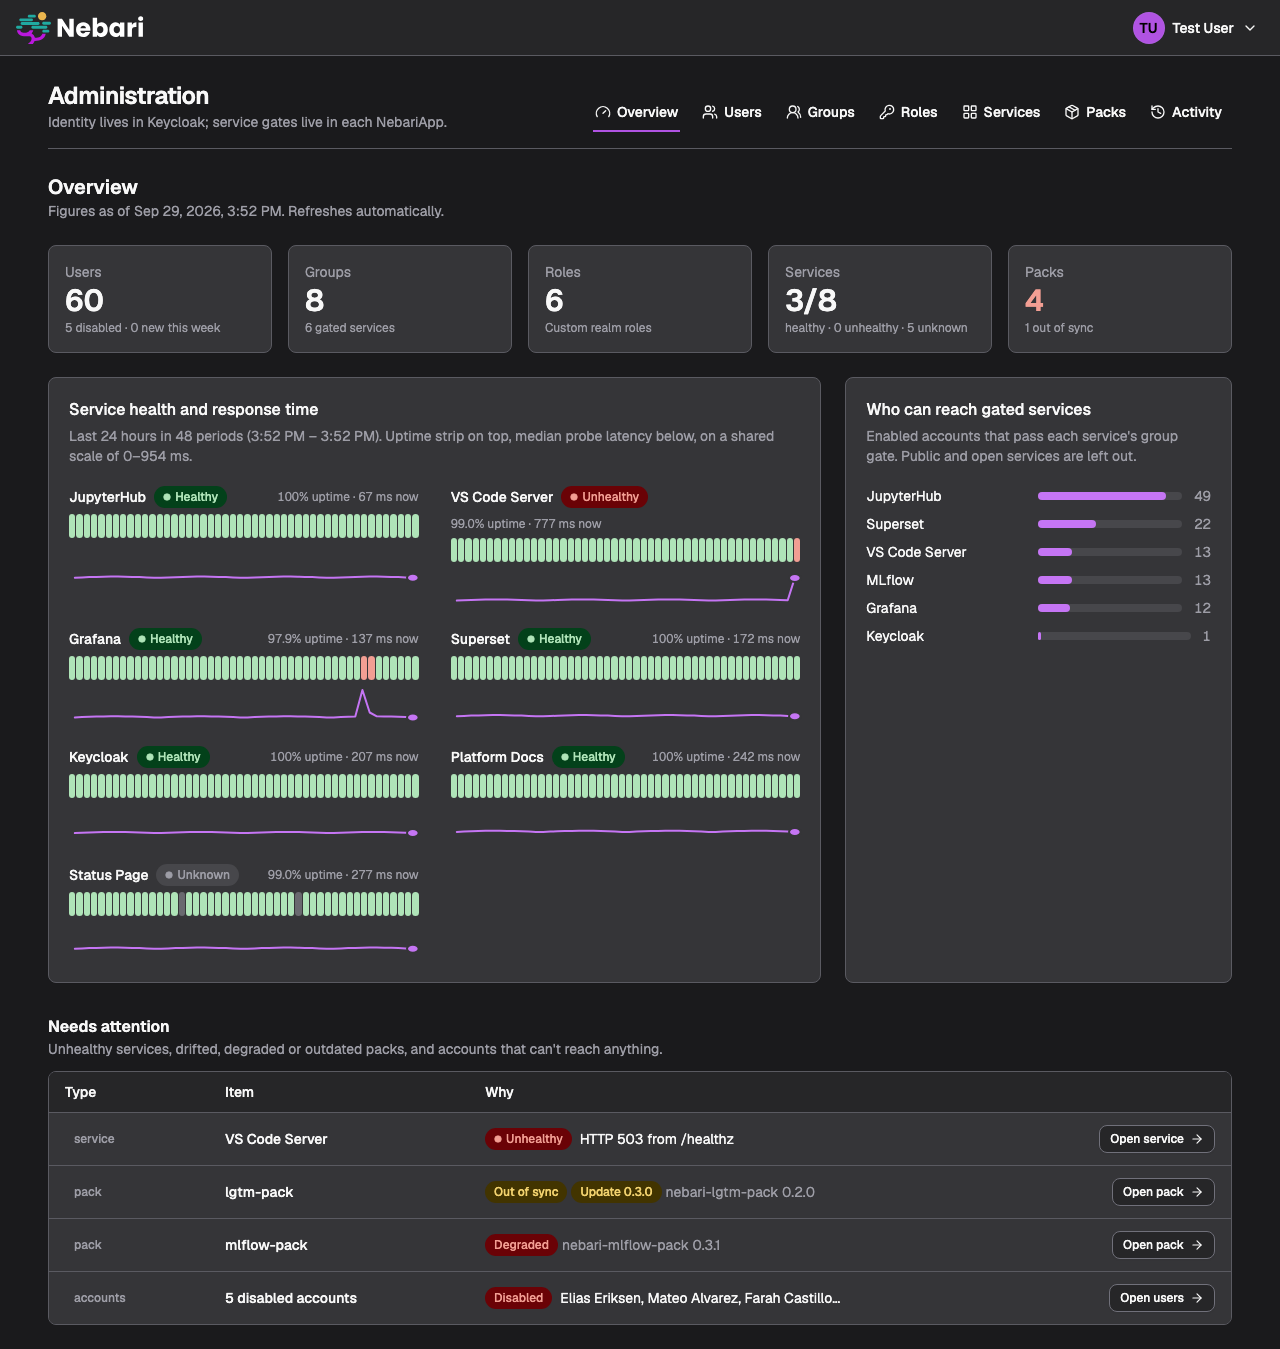
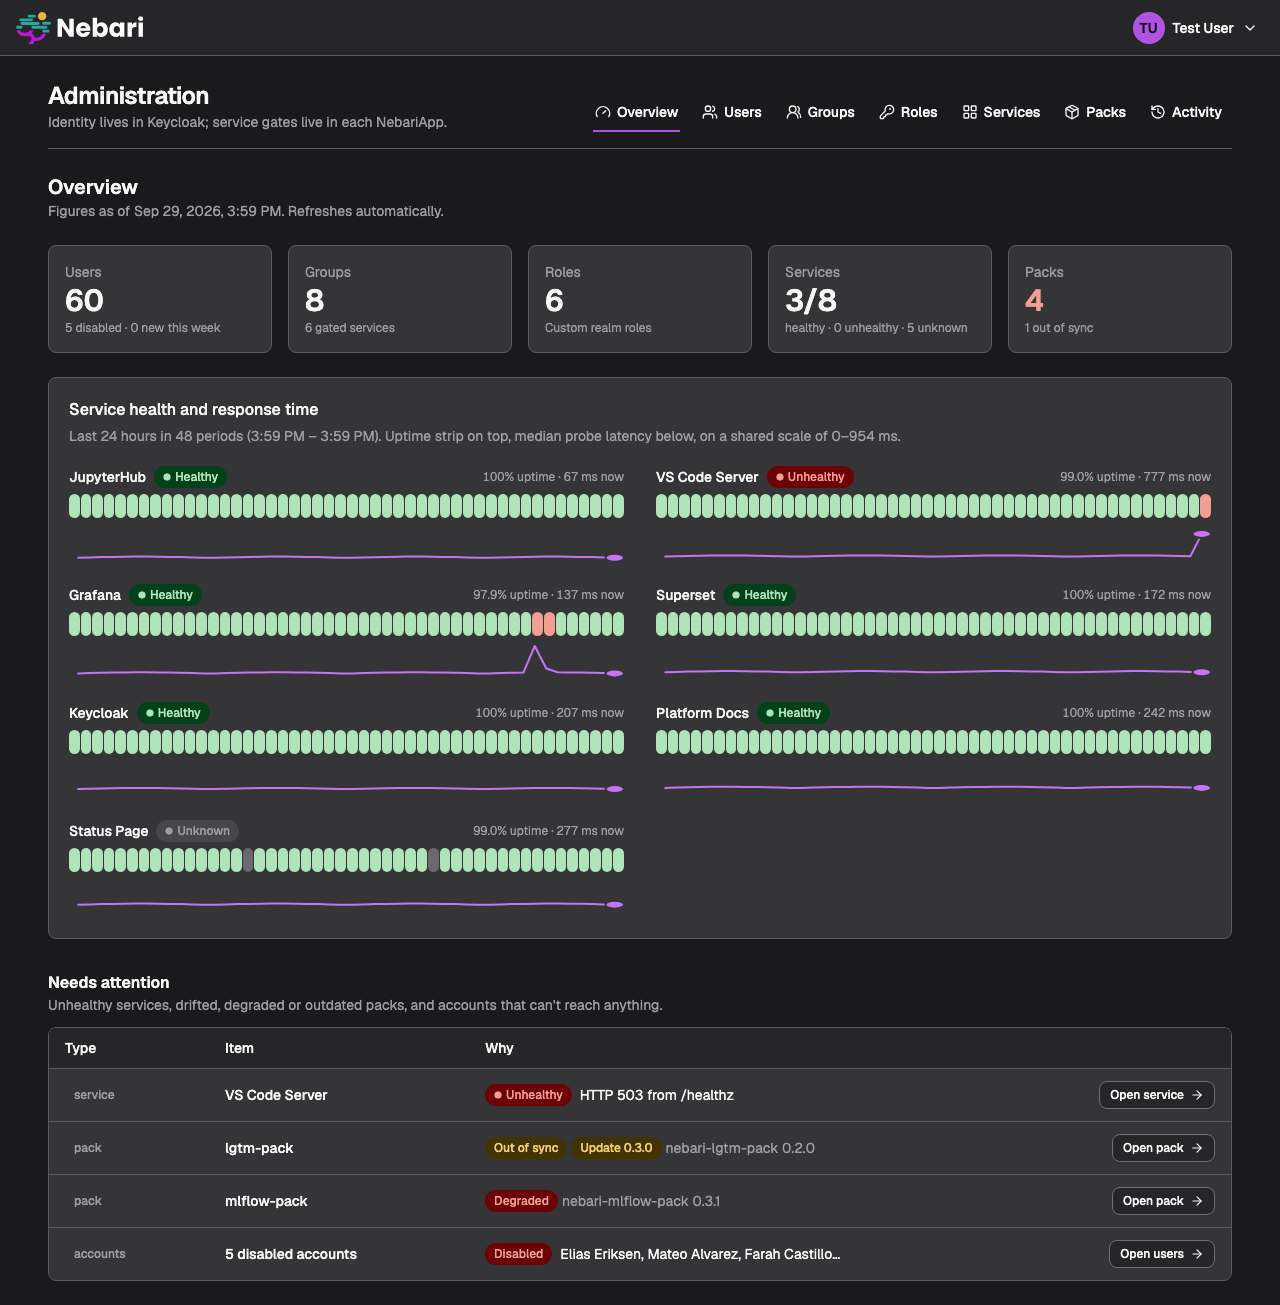
feat(frontend): drop the access-reach card; health panel spans the overview
Claude-Session: https://claude.ai/code/session_01P6LHR1J8qoTHyei6oh5qmU

diff --git a/frontend/src/admin/pages/OverviewPage.tsx b/frontend/src/admin/pages/OverviewPage.tsx
@@ -4,7 +4,6 @@ import { Link } from "react-router";
 import { StatusBadge } from "@/components/StatusBadge";
 import { Badge } from "@/components/ui/badge";
 import { Button } from "@/components/ui/button";
-import { Card, CardContent, CardDescription, CardHeader, CardTitle } from "@/components/ui/card";
 import {
   Table,
   TableBody,
@@ -14,7 +13,6 @@ import {
   TableRow,
 } from "@/components/ui/table";
 import { ArgoHealthBadge, SyncBadge } from "../components/ArgoBadges";
-import { BarList } from "../components/charts/BarList";
 import { EmptyState } from "../components/EmptyState";
 import { StatusBadge as AccountStatusBadge } from "../components/EntityBadges";
 import { HealthPanel } from "../components/HealthPanel";
@@ -22,7 +20,6 @@ import { PageHeader } from "../components/PageHeader";
 import { StatTile } from "../components/StatTile";
 import { VersionBadge } from "../components/VersionBadge";
 import { useAdminOverview, useAdminWorld, useHealthSeries, usePacks } from "../hooks/useAdminData";
-import { effectiveUserCount } from "../lib/access";
 import { displayName, formatDateTime, pluralize } from "../lib/format";
 
 type AttentionRow = {
@@ -42,7 +39,7 @@ type AttentionRow = {
 export function OverviewPage() {
   const overview = useAdminOverview();
   const packs = usePacks();
-  const { users, groups, services, isLoading: worldLoading } = useAdminWorld();
+  const { users, services, isLoading: worldLoading } = useAdminWorld();
   const health = useHealthSeries(24, 48);
   const o = overview.data;
   const packList = packs.data?.packs ?? [];
@@ -132,24 +129,6 @@ export function OverviewPage() {
 
   const loading = overview.isPending;
 
-  const reach = useMemo(
-    () =>
-      services
-        .filter((s) => s.visibility !== "public" && s.requiredGroups.length > 0)
-        .map((s) => {
-          const n = effectiveUserCount(s, groups, users);
-          return {
-            key: s.id,
-            label: s.displayName,
-            value: n === "everyone" ? users.length : n,
-            to: `/admin/services/${encodeURIComponent(s.id)}`,
-            note: `via ${s.requiredGroups.join(", ")}`,
-          };
-        })
-        .sort((a, b) => b.value - a.value),
-    [services, groups, users],
-  );
-
   return (
     <section aria-labelledby="overview-title">
       <PageHeader
@@ -232,34 +211,8 @@ export function OverviewPage() {
         </div>
       )}
 
-      <div className="mt-6 grid gap-6 xl:grid-cols-[2fr_1fr]">
+      <div className="mt-6">
         <HealthPanel data={health.data} loading={health.isPending} error={health.error} />
-        <Card>
-          <CardHeader>
-            <CardTitle>Who can reach gated services</CardTitle>
-            <CardDescription>
-              Enabled accounts that pass each service's group gate. Public and open services are
-              left out.
-            </CardDescription>
-          </CardHeader>
-          <CardContent>
-            {worldLoading ? (
-              <p className="text-sm text-muted-foreground">Loading…</p>
-            ) : reach.length === 0 ? (
-              <EmptyState
-                title="No gated services"
-                description="No NebariApp lists groups under spec.auth."
-              />
-            ) : (
-              <BarList
-                items={reach}
-                label="Users with access per gated service"
-                formatValue={(v) => `${v}`}
-                max={users.filter((u) => u.enabled).length}
-              />
-            )}
-          </CardContent>
-        </Card>
       </div>
 
       <div className="mt-8 flex flex-col gap-3">

diff --git a/frontend/tests/e2e/admin.spec.ts b/frontend/tests/e2e/admin.spec.ts
@@ -59,7 +59,6 @@ test.describe("overview", () => {
     await expect(page.getByRole("link", { name: /^Packs: 4/ })).toBeVisible();
 
     await expect(page.getByRole("img", { name: /Grafana median latency/ })).toBeVisible();
-    await expect(page.getByRole("list", { name: "Users with access per gated service" })).toBeVisible();
 
     const attention = page.getByRole("table", { name: "Needs attention" });
     await expect(attention.getByRole("row", { name: /lgtm-pack/ })).toContainText("Out of sync");
